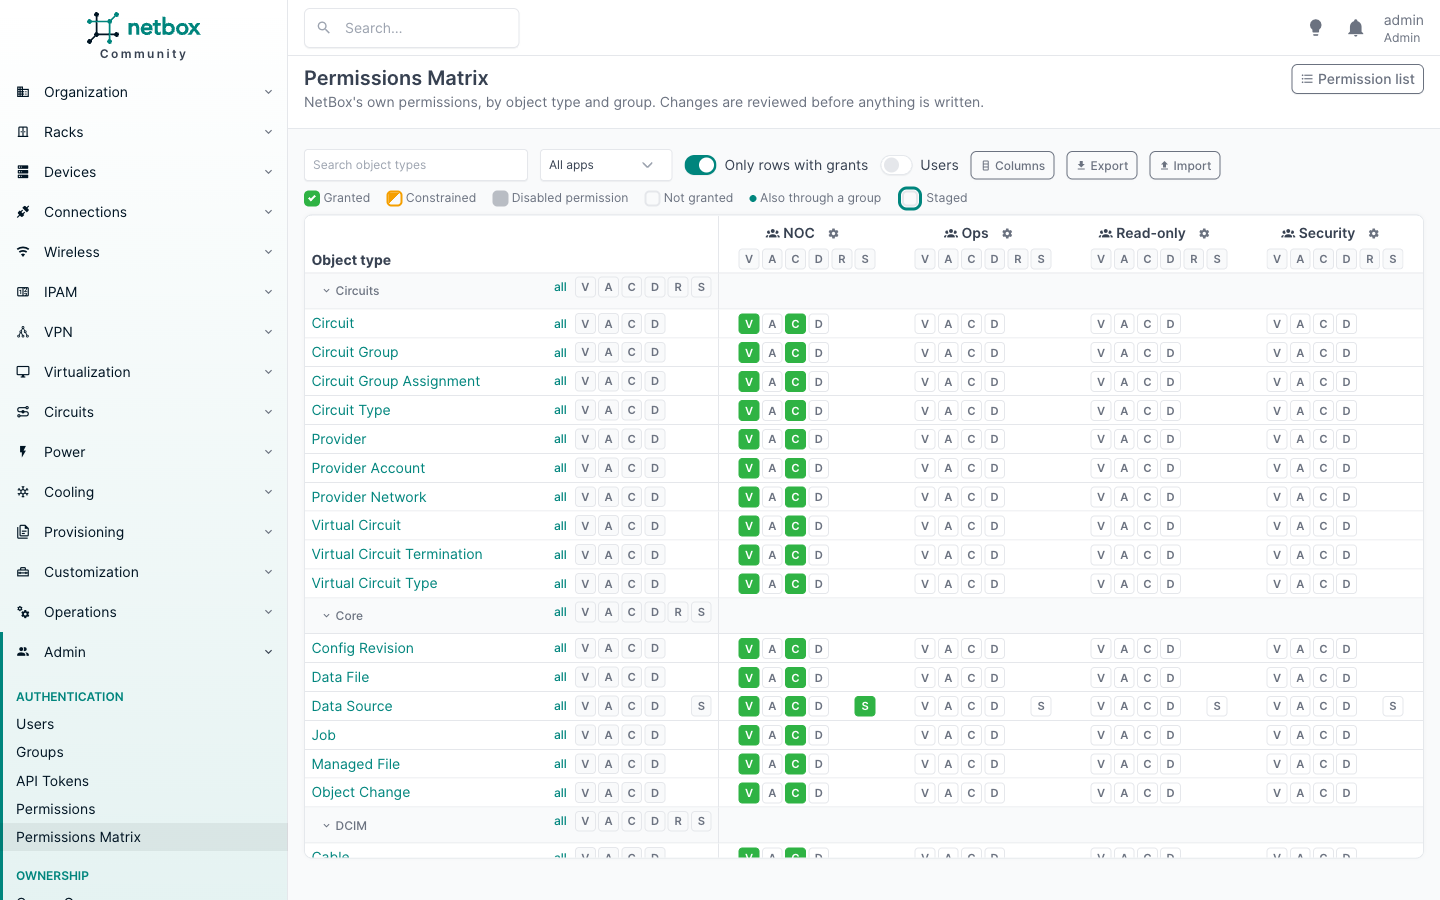
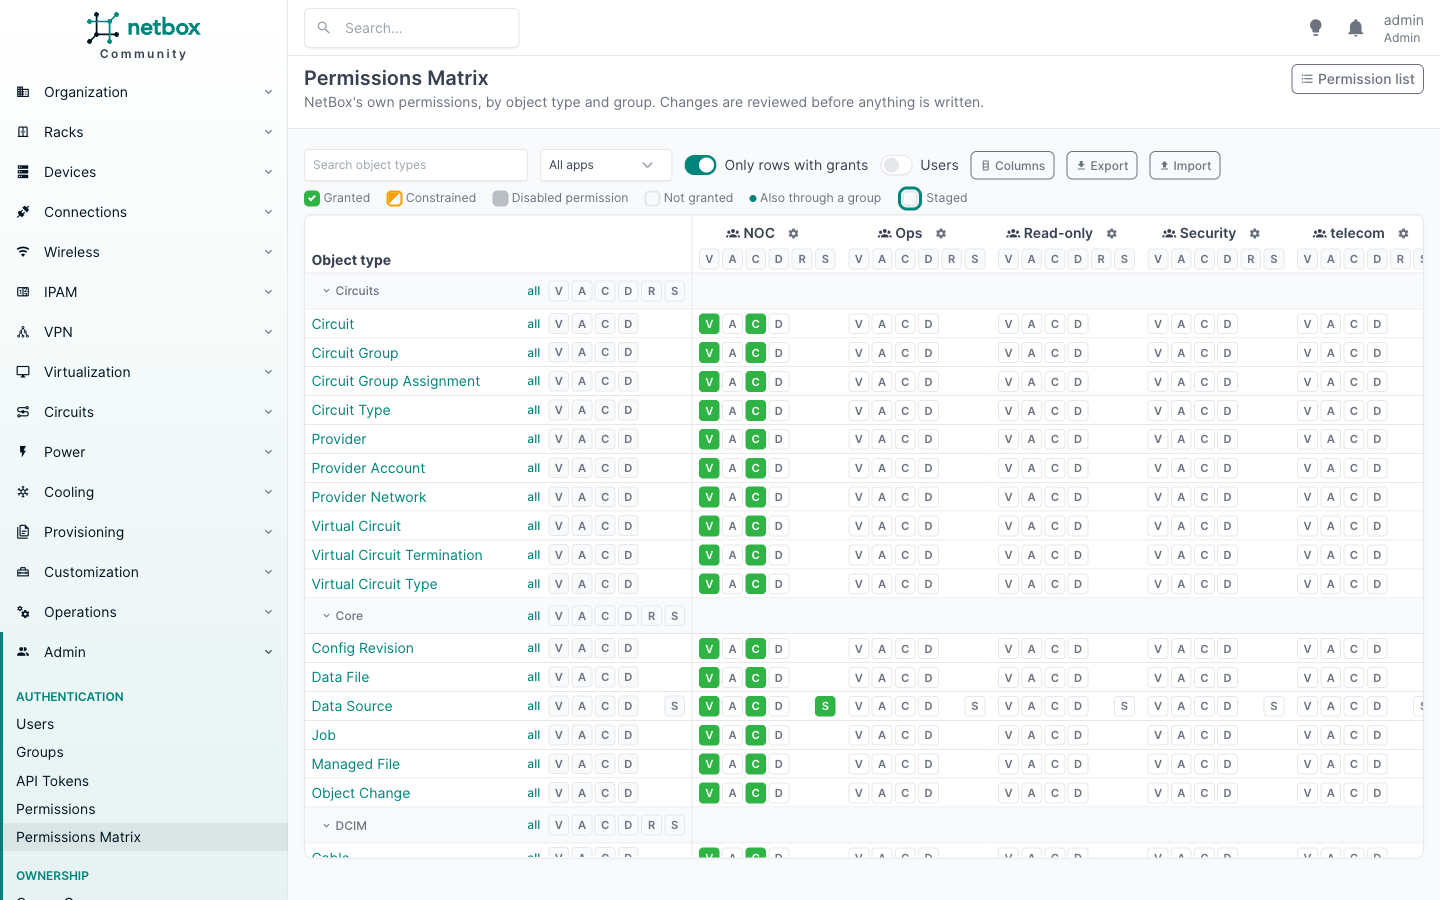
fix: matrix card fits its columns instead of stretching the object type column

diff --git a/netbox_permissions_matrix_plugin/static/netbox_permissions_matrix_plugin/matrix.js b/netbox_permissions_matrix_plugin/static/netbox_permissions_matrix_plugin/matrix.js
@@ -306,11 +306,11 @@
     let html = `<table class="pm-table"><thead><tr><th scope="col" class="pm-corner">${mode === "matrix" ? "Object type" : "Object type / action"}</th>${cols.map(headerHtml).join("")}</tr></thead><tbody>`;
     for (const [label, app] of apps) {
       const collapsed = state.collapsed.has(label);
-      html += `<tr class="pm-app-row"><th scope="rowgroup" class="pm-rowhead"><button type="button" class="btn btn-sm btn-ghost-secondary pm-app-toggle" data-app="${esc(label)}" aria-expanded="${!collapsed}"><i class="mdi ${collapsed ? "mdi-chevron-right" : "mdi-chevron-down"}" aria-hidden="true"></i> ${esc(app.name)}</button>${allButton("pm-all-app", `data-app="${esc(label)}"`, "Toggle every row of this app")}</th><td class="pm-app-fill" colspan="${cols.length}"></td></tr>`;
+      html += `<tr class="pm-app-row"><th scope="rowgroup" class="pm-rowhead"><div class="pm-rowline"><button type="button" class="btn btn-sm btn-ghost-secondary pm-app-toggle" data-app="${esc(label)}" aria-expanded="${!collapsed}"><i class="mdi ${collapsed ? "mdi-chevron-right" : "mdi-chevron-down"}" aria-hidden="true"></i> ${esc(app.name)}</button>${allButton("pm-all-app", `data-app="${esc(label)}"`, "Toggle every row of this app")}</div></th><td class="pm-app-fill" colspan="${cols.length}"></td></tr>`;
       if (collapsed) continue;
       for (const row of app.rows) {
         const link = urls.whoCan.replace("__ot__", encodeURIComponent(row.object_type));
-        html += `<tr><th scope="row" class="pm-rowhead"><a href="${esc(link)}" title="Who can: ${esc(row.object_type)}">${esc(row.label)}</a>${allButton("pm-all-row", `data-ot="${esc(row.object_type)}"`, "Toggle the whole row", row)}</th>${cols.map((c) => cellHtml(row, c)).join("")}</tr>`;
+        html += `<tr><th scope="row" class="pm-rowhead"><div class="pm-rowline"><a href="${esc(link)}" title="Who can: ${esc(row.object_type)}">${esc(row.label)}</a>${allButton("pm-all-row", `data-ot="${esc(row.object_type)}"`, "Toggle the whole row", row)}</div></th>${cols.map((c) => cellHtml(row, c)).join("")}</tr>`;
       }
     }
     if (!rows.length) html += `<tr><td class="p-4 text-secondary" colspan="${cols.length + 1}">No object type matches the filters.</td></tr>`;

diff --git a/netbox_permissions_matrix_plugin/static/netbox_permissions_matrix_plugin/matrix.css b/netbox_permissions_matrix_plugin/static/netbox_permissions_matrix_plugin/matrix.css
@@ -50,8 +50,12 @@
   margin-bottom: 0.5rem;
 }
 
+/* The card is as wide as the table, up to the page width; beyond that it scrolls. A few columns stay compact on the
+   left instead of stretching the object type column. */
 .pm-scroll {
   overflow: auto;
+  width: fit-content;
+  max-width: 100%;
   max-height: calc(100vh - 16rem);
   min-height: 12rem;
 }
@@ -60,7 +64,6 @@
   border-collapse: separate;
   border-spacing: 0;
   width: max-content;
-  min-width: 100%;
 }
 
 .pm-table th,
@@ -83,12 +86,24 @@
   left: 0;
   z-index: 1;
   min-width: 14rem;
-  max-width: 22rem;
+  max-width: 32rem;
   white-space: nowrap;
-  overflow: hidden;
-  text-overflow: ellipsis;
   border-right: 1px solid var(--pm-border);
   font-weight: normal;
+}
+
+/* Row header on one line: the name (cut with an ellipsis if needed) on the left, the toggles on the right. */
+.pm-rowline {
+  display: flex;
+  align-items: center;
+  justify-content: space-between;
+  gap: 0.75rem;
+}
+
+.pm-rowline > :first-child {
+  overflow: hidden;
+  text-overflow: ellipsis;
+  min-width: 0;
 }
 
 .pm-table thead .pm-corner {
@@ -122,23 +137,12 @@
   font-weight: 600;
 }
 
-.pm-rowhead .pm-all {
-  float: right;
-  margin-left: 0.25rem;
-}
-
-/* All-actions grid: "all" then one letter per action, on the right of the row name. */
+/* All-actions grid: "all" then one letter per action. */
 .pm-rowhead .pm-rowctl {
-  float: right;
   display: inline-flex;
   align-items: center;
   gap: 0.15rem;
-  margin-left: 0.5rem;
-}
-
-.pm-rowctl .pm-all {
-  float: none;
-  margin-left: 0;
+  flex-shrink: 0;
 }
 
 .pm-all {
